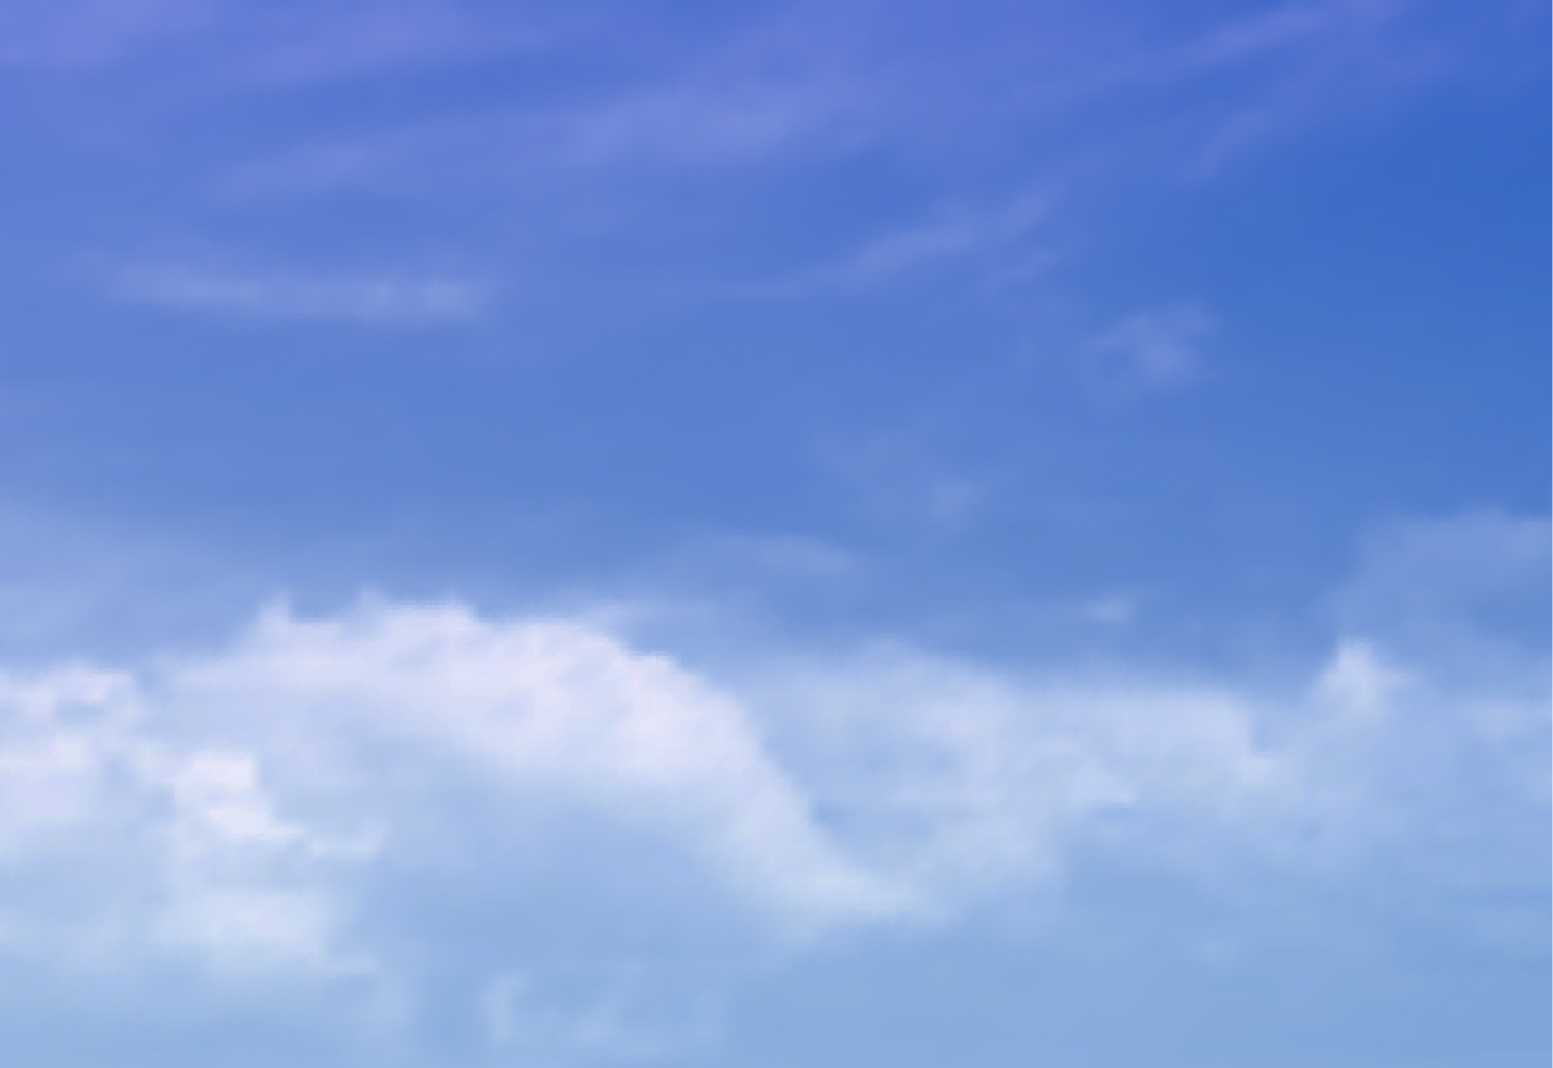
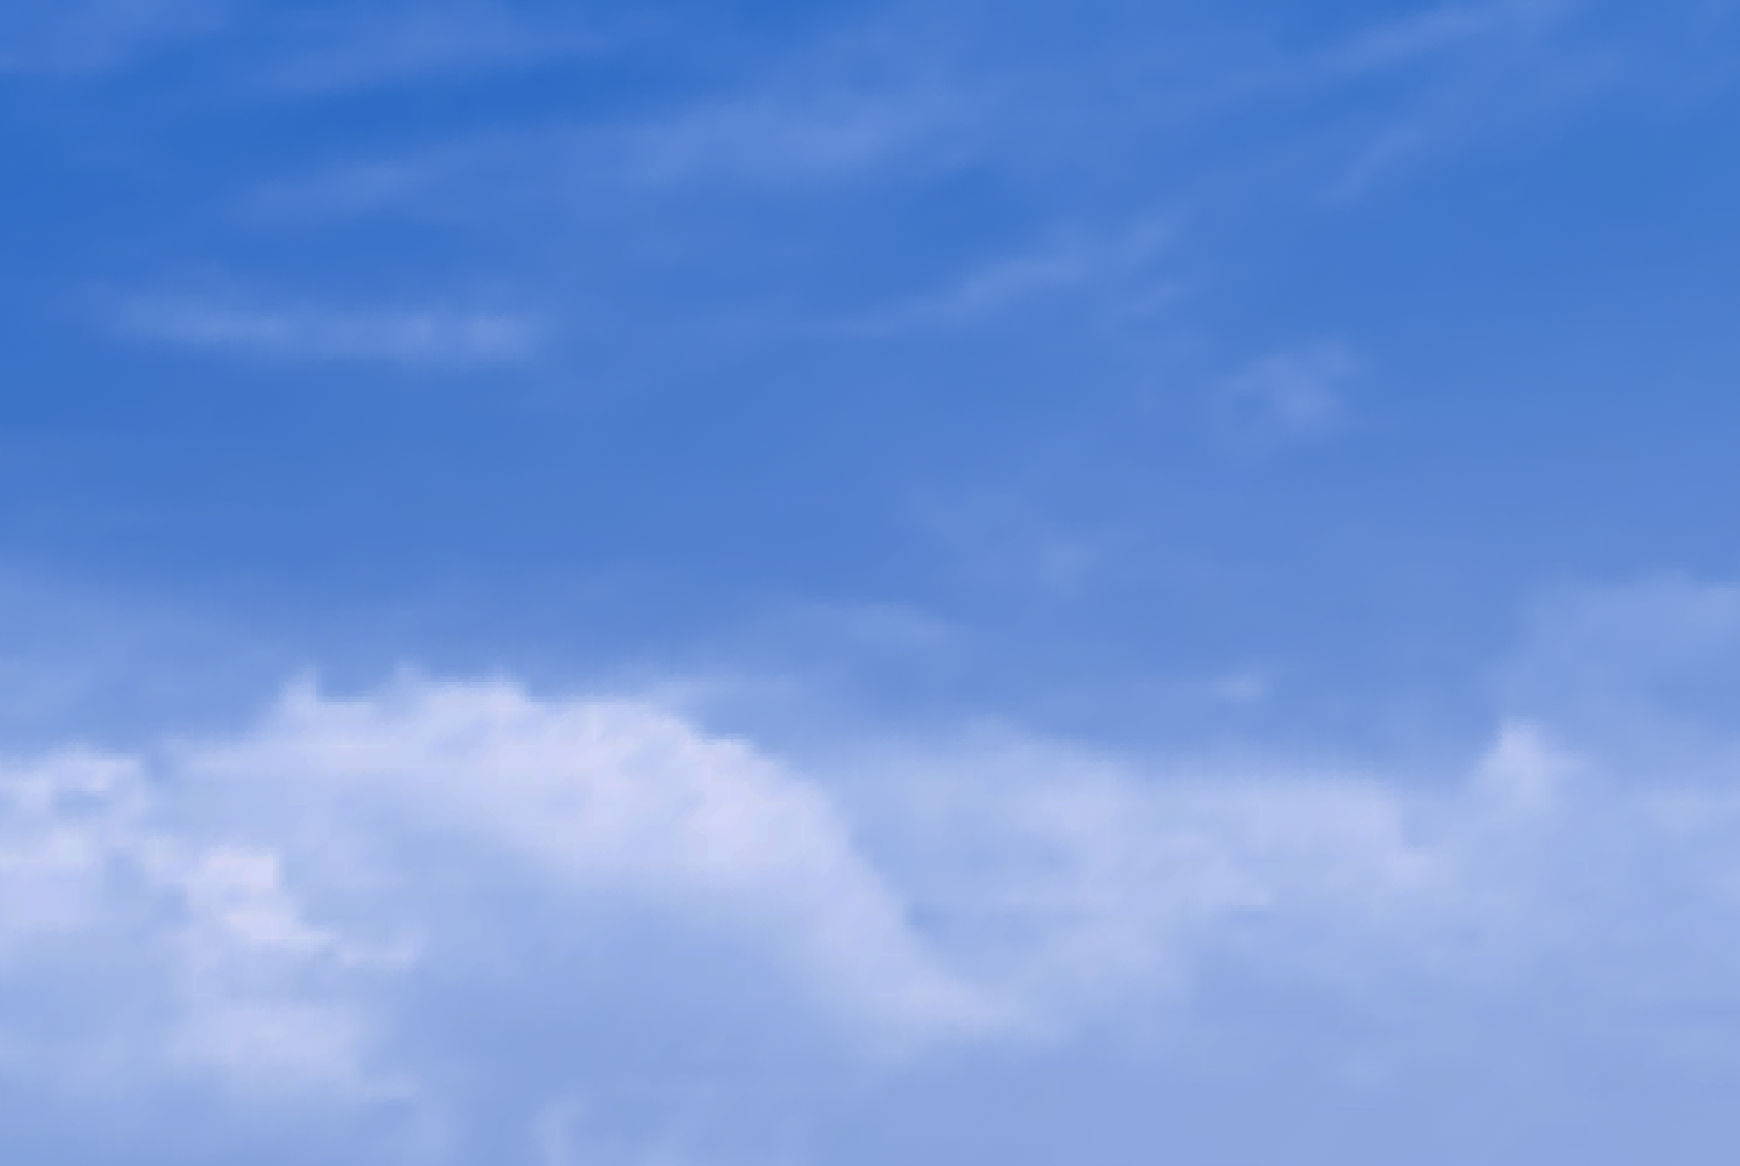
Updated container BG & Added body BG

diff --git a/src/style.css b/src/style.css
@@ -1,5 +1,9 @@
 body {
   font-family: "Poppins", sans-serif;
+  background-image: url("../images/fullpage-bg.png");
+  background-position: center;
+  background-repeat: 0 repeat;
+  background-size: cover;
 }
 .container {
   margin: 0 auto;
@@ -234,11 +238,10 @@ ul#weather-info {
   line-height: 28px;
   margin-top: 20px;
   margin-left: -24px;
-  opacity: 0.8;
 }
 
 .weather-forecast {
-  background-color: #0921789f;
+  background-color: rgba(10, 36, 128, 0.6);
   margin: 48px 0 0 0;
   padding: 32px 24px 16px 24px;
   max-width: 100%;
@@ -287,7 +290,7 @@ p.weather-type {
 footer {
   font-size: 12px;
   font-weight: 400;
-  color: #7684a2;
+  color: #59657e;
   align-items: center;
   padding-top: 8px;
   margin: 0 auto;
